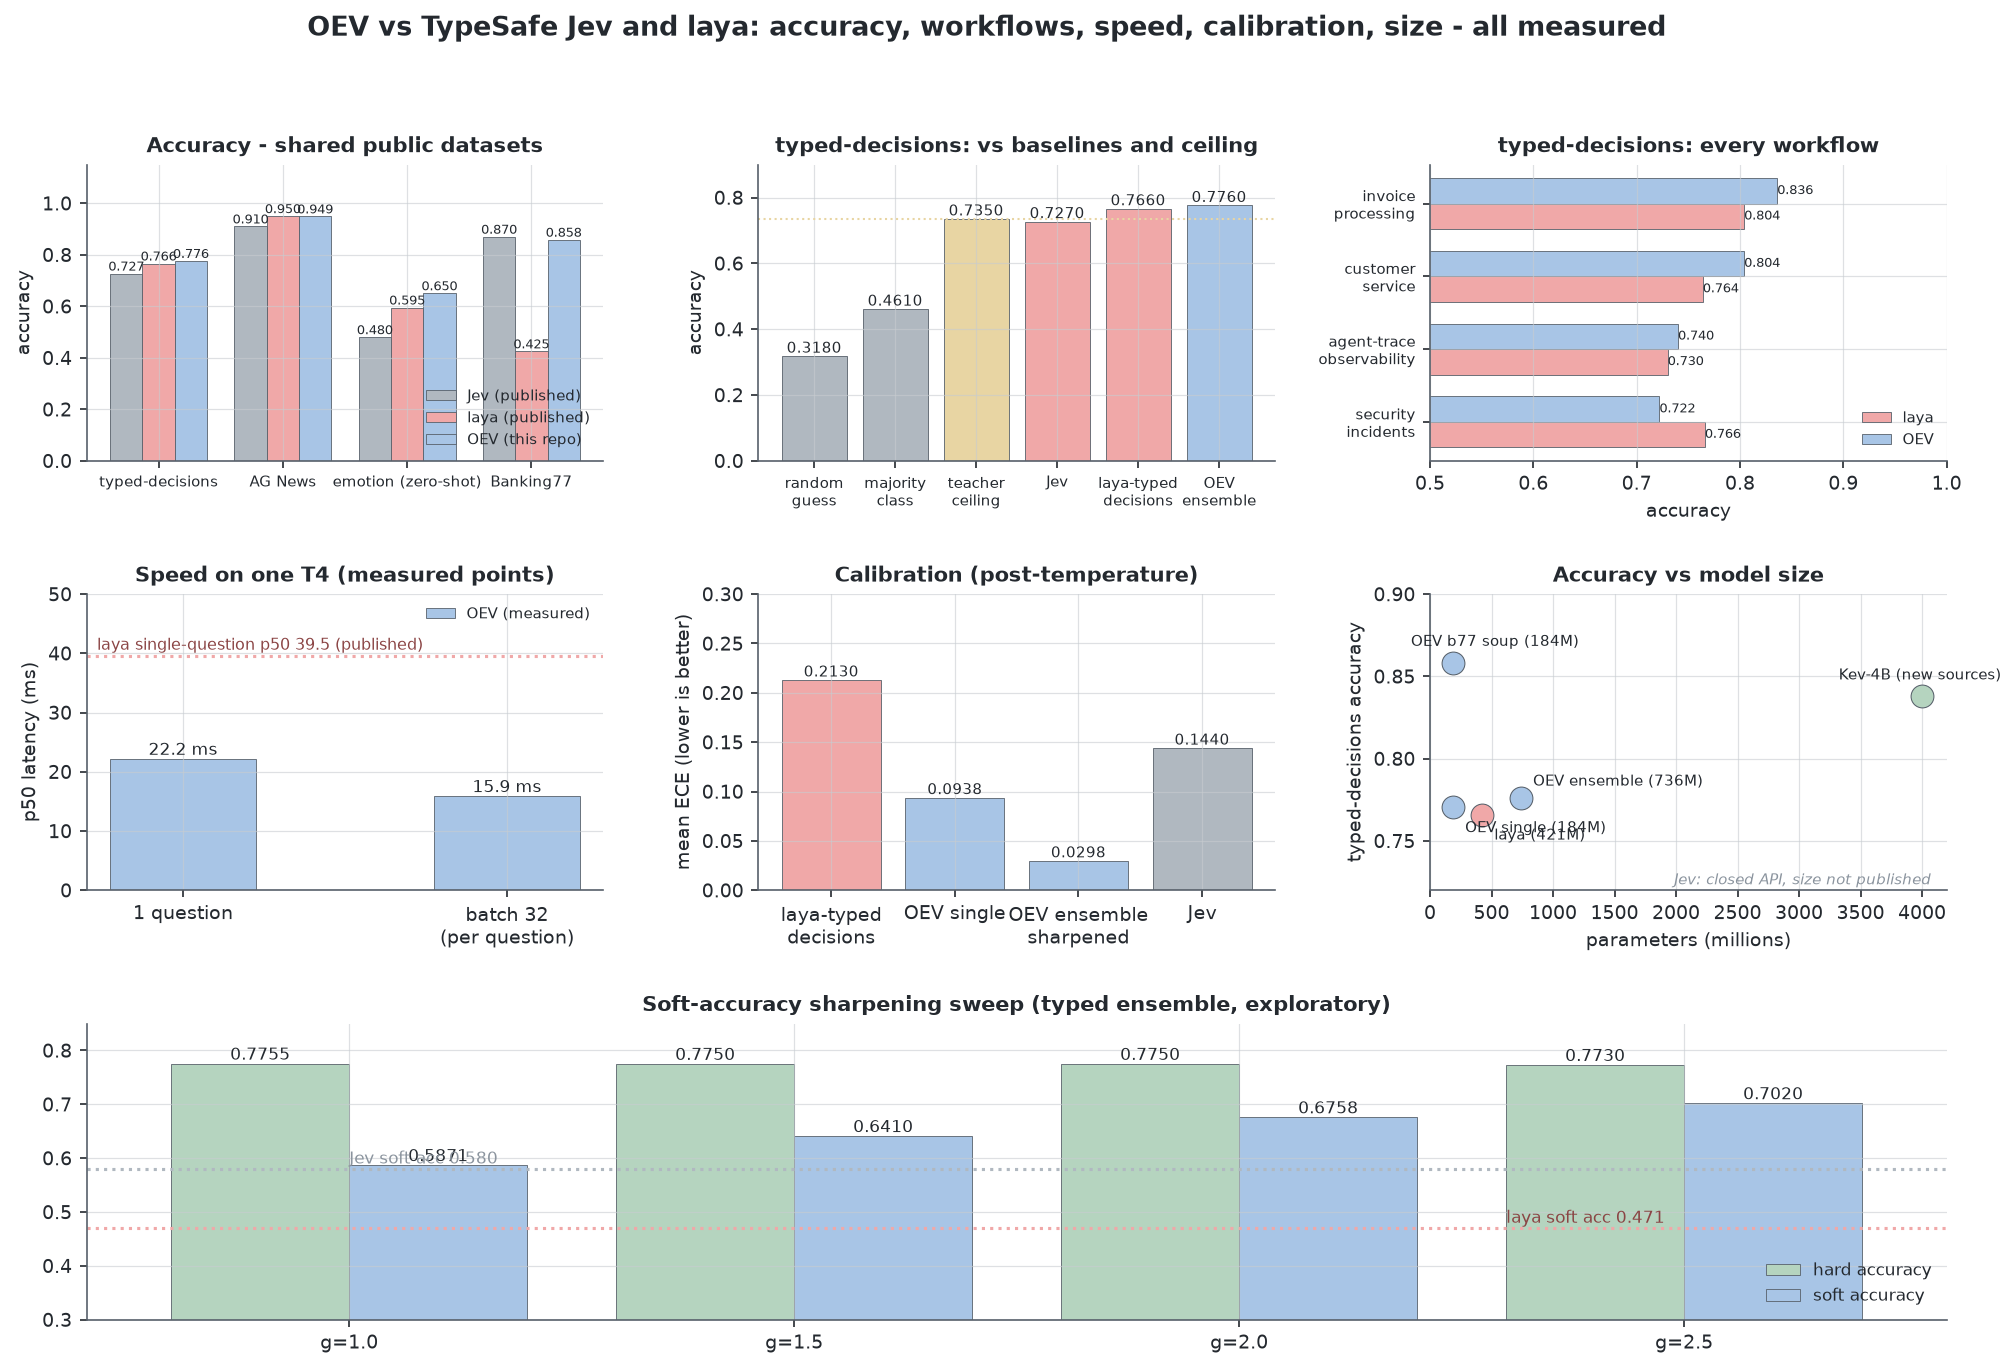
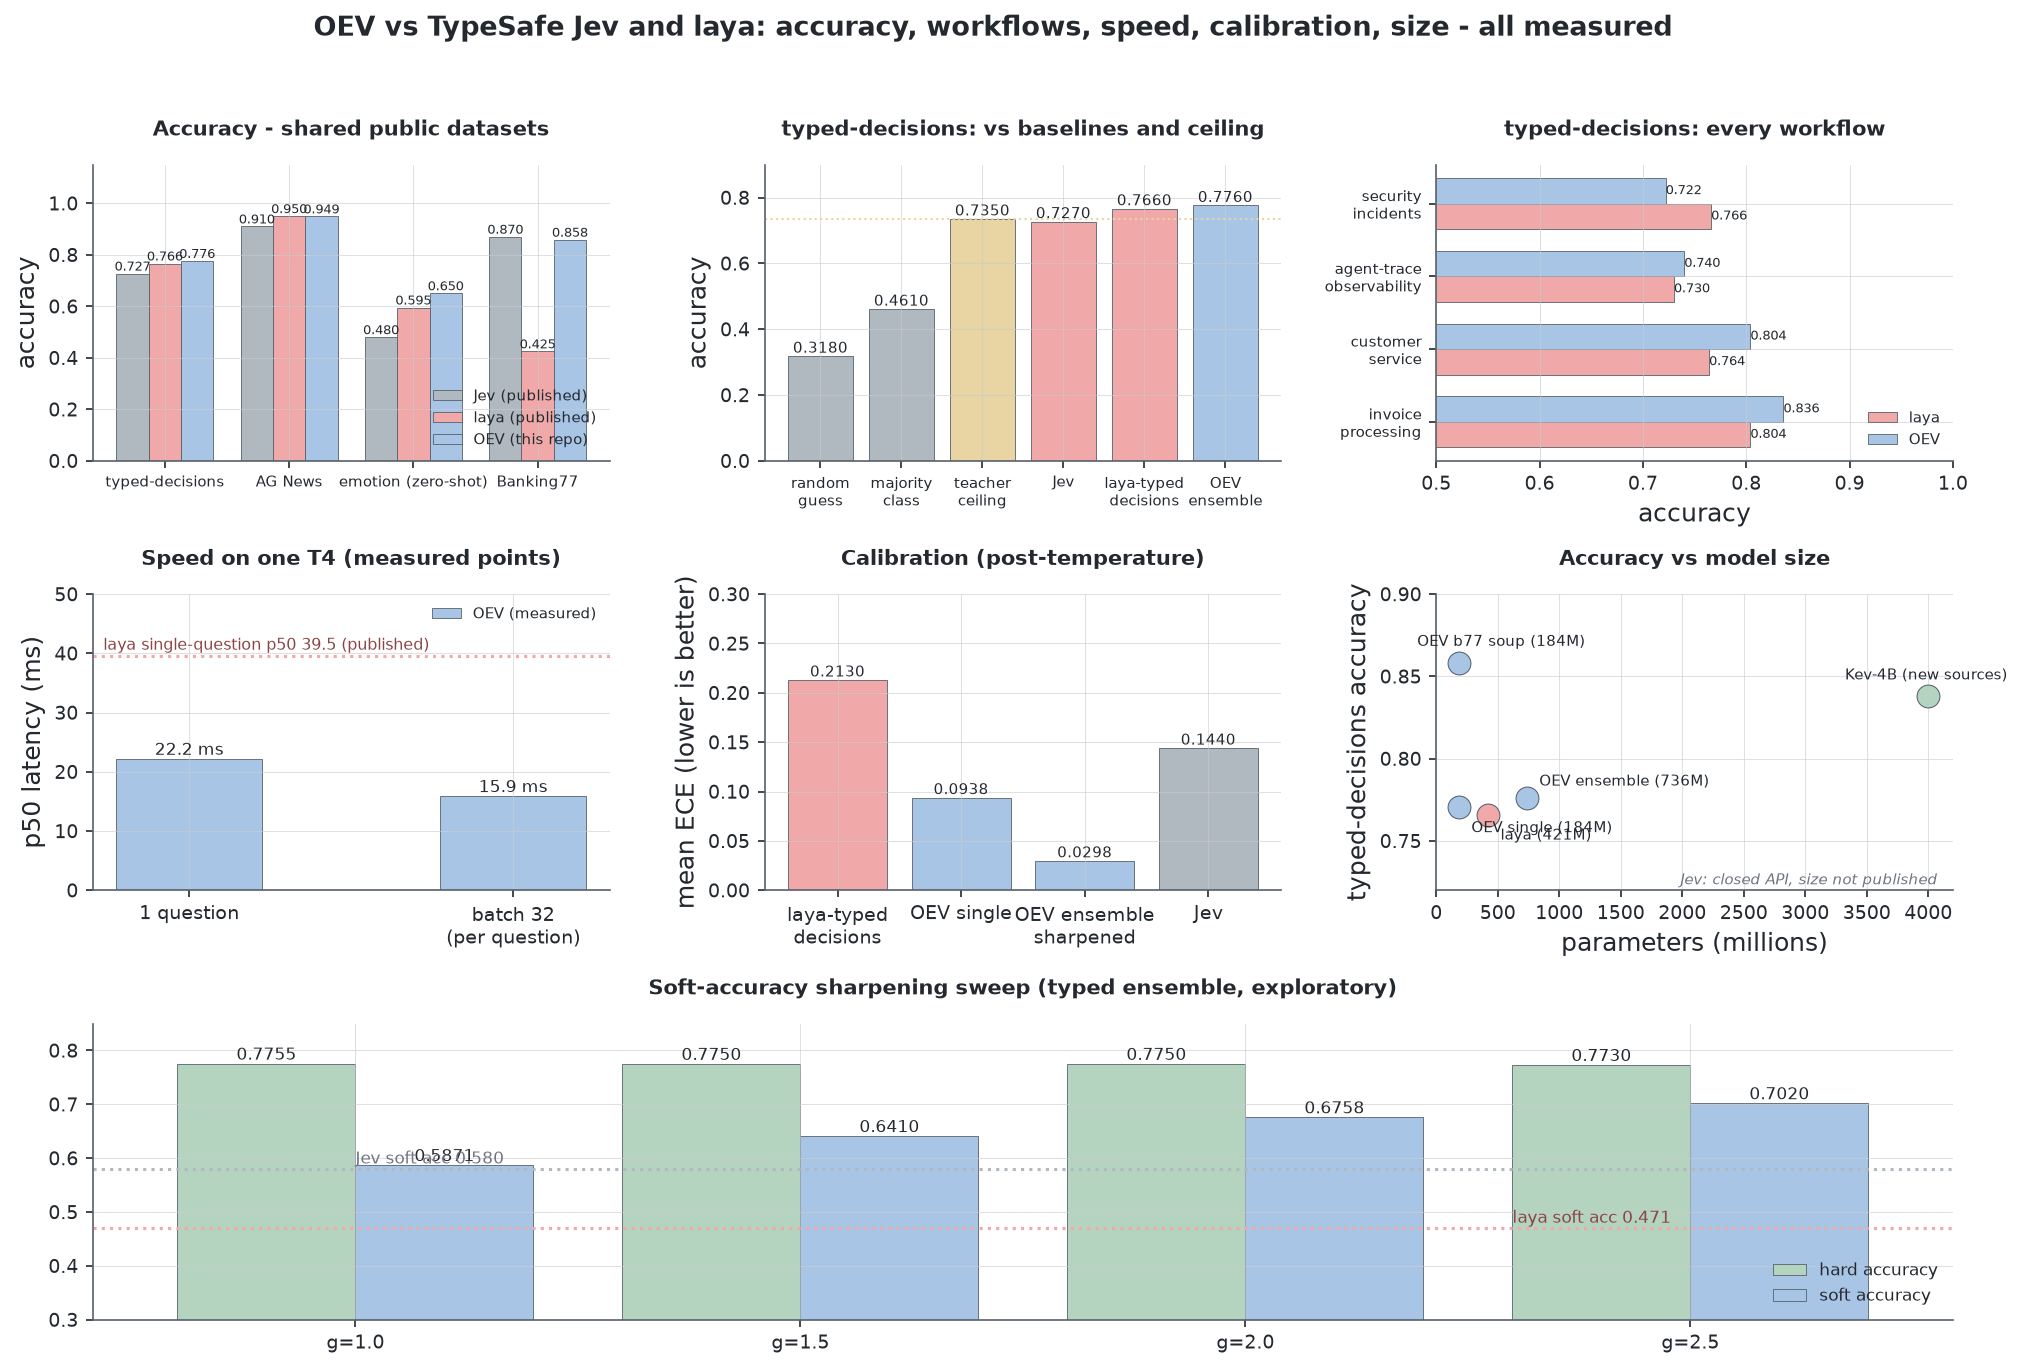
chore(repo): community files, ignore policy, chart modules, phase 3 docs

diff --git a/HF_MODEL_CARD.md b/HF_MODEL_CARD.md
@@ -28,8 +28,10 @@ Fine-tuned on the benchmark's train split, same protocol as [laya-typed-decision
 | ---------------------------------------------------- | ---------: | -----------: | -----------: | -----------: | ---------------: |
 | Jev 1.13.0 (published)                               | closed API |        0.727 |        0.580 |        0.144 |     236-`276 ms` |
 | laya-typed-decisions (published)                     |       421M |        0.766 |        0.471 |        0.213 |   32.8-`39.5 ms` |
-| **OEV single (oev-base-td5)**                        | **`184M`** | **`0.7705`** |       0.6225 |       0.0938 |    **`22.2 ms`** |
-| **OEV calibrated single (oev-base-rlcd-soup)**       | **`184M`** |       0.7570 |       0.5854 | **`0.0279`** |    **`22.2 ms`** |
+| **OEV single (oev-base-td5)**                        | **`184M`** | **`0.7705`** |       0.6225 |       0.0938 |    **`22.2 ms`** || **OEV calibrated single (oev-base-rlcd-soup)**                       | **`184M`** |       0.7570 |       0.5854 | **`0.0279`** |    **`22.2 ms`** |
+| **OEV temperature-calibrated (oev-base-td5, T=0.598)**               | **`184M`** |       0.7705 |            - | **`0.0204`** |    **`22.2 ms`** |
+
+The temperature-calibrated row is the best calibrated single: temperature `0.598` fitted on the valid split only (receipt in the repo's `runs/`), accuracy unchanged by monotone scaling. Use it via `OEV(checkpoint, temperature=0.598)`.
 | **OEV ensemble (all four checkpoints, equal votes)** | 4 × `184M` | **`0.7760`** |       0.5830 |            - |                - |
 | OEV ensemble, sharpened (γ = 2.5)                    | 3 × `184M` |       0.7730 | **`0.7020`** |       0.0298 |                - |
 
@@ -40,7 +42,7 @@ Per workflow (ensemble): invoice `0.836`, customer service `0.804`, agent-trace 
 | file                        | what it is                                                                                                                                                                                                                     |
 | --------------------------- | ------------------------------------------------------------------------------------------------------------------------------------------------------------------------------------------------------------------------------ |
 | **student-r2b-oev-tiny.pt** | **distilled generalist - recommended default.** One model for everything: typed `0.6480`, Banking77 `0.7964`, emotion zero-shot `0.6505` (beats laya `0.595`), probes all `PASS`. Use `gamma 1.2` for calibrated probabilities |
-| oev-base-td5.pt             | typed-decisions specialist (0.7705) - best when you only need agent-decision scoring                                                                                                                                           |
+| oev-base-td5.pt             | typed-decisions specialist (0.7705; with temperature 0.598 it is the most calibrated single at ECE 0.0204) - best when you only need agent-decision scoring                                                                    |
 | oev-base-rlcd-soup.pt       | most calibrated single (ECE 0.0279). Prefer this one when the probabilities feed automated decisions.                                                                                                                          |
 | oev-base-rlcd.pt            | RLCD fine-tune (Brier-reward policy gradient against teacher distributions)                                                                                                                                                    |
 | oev-base-rlcd-seed1.pt      | second RLCD seed - for ensembling                                                                                                                                                                                              |

diff --git a/CODE_OF_CONDUCT.md b/CODE_OF_CONDUCT.md
@@ -1,0 +1,81 @@
+# Contributor Covenant Code of Conduct
+
+## Our Pledge
+
+We as members, contributors, and leaders pledge to make participation in the
+OEV project a harassment-free experience for everyone, regardless of age, body
+size, visible or invisible disability, ethnicity, sex characteristics, gender
+identity and expression, level of experience, education, socio-economic status,
+nationality, personal appearance, race, religion, or sexual identity and
+orientation.
+
+We pledge to act and interact in ways that contribute to an open, welcoming,
+diverse, inclusive, and healthy community.
+
+## Our Standards
+
+Examples of behavior that contributes to a positive environment include:
+
+- Demonstrating empathy and kindness toward other people
+- Being respectful of differing opinions, viewpoints, and experiences
+- Giving and gracefully accepting constructive feedback
+- Accepting responsibility and apologizing to those affected by our mistakes,
+  and learning from the experience
+- Focusing on what is best not just for us as individuals, but for the overall
+  community
+
+Examples of unacceptable behavior include:
+
+- The use of sexualized language or imagery, and sexual attention or advances
+  of any kind
+- Trolling, insulting or derogatory comments, and personal or political attacks
+- Public or private harassment
+- Publishing others' private information, such as a physical or email address,
+  without their explicit permission
+- Other conduct which could reasonably be considered inappropriate in a
+  professional setting
+
+## Enforcement Responsibilities
+
+Community leaders are responsible for clarifying and enforcing our standards of
+acceptable behavior and will take appropriate and fair corrective action in
+response to any behavior that they deem inappropriate, threatening, offensive,
+or harmful.
+
+Community leaders have the right and responsibility to remove, edit, or reject
+comments, commits, code, wiki edits, issues, and other contributions that are
+not aligned to this Code of Conduct, and will communicate reasons for
+moderation decisions when appropriate.
+
+## Scope
+
+This Code of Conduct applies within all project spaces, and it also applies
+when an individual is officially representing the project in public spaces.
+Examples of representing our project include using an official project e-mail
+address, posting via an official social media account, or acting as an
+appointed representative at an online or offline event.
+
+## Enforcement
+
+Instances of abusive, harassing, or otherwise unacceptable behavior may be
+reported to the project maintainer through
+[GitHub private vulnerability reporting](https://github.com/divyanshudhruv/oev/security/advisories/new)
+or by contacting the owner directly via GitHub. All complaints will be reviewed
+and investigated promptly and fairly.
+
+All community leaders are obligated to respect the privacy and security of the
+reporter of any incident.
+
+## Attribution
+
+This Code of Conduct is adapted from the
+[Contributor Covenant](https://www.contributor-covenant.org), version 2.1,
+available at
+https://www.contributor-covenant.org/version/2/1/code_of_conduct.html.
+
+Community Impact Guidelines were inspired by
+[Mozilla's code of conduct enforcement ladder](https://github.com/mozilla/diversity).
+
+For answers to common questions about this code of conduct, see the FAQ at
+https://www.contributor-covenant.org/faq. Translations are available at
+https://www.contributor-covenant.org/translations.

diff --git a/README.md b/README.md
@@ -14,6 +14,7 @@ The single `184M` model scores `0.7705` on typed-decisions, slightly above laya'
 [![Hugging Face Model](https://img.shields.io/badge/%F0%9F%A4%97%20Model-divyanshudhruv%2Foev--typed-blue)](https://huggingface.co/divyanshudhruv/oev-typed)
 [![License](https://img.shields.io/badge/License-Apache%202.0-blue.svg)](LICENSE)
 [![Tests](https://github.com/divyanshudhruv/oev/actions/workflows/tests.yml/badge.svg)](https://github.com/divyanshudhruv/oev/actions/workflows/tests.yml)
+[![OpenSSF Scorecard](https://api.scorecard.dev/projects/github.com/divyanshudhruv/oev/badge)](https://scorecard.dev/viewer/?uri=github.com/divyanshudhruv/oev)
 [![Python](https://img.shields.io/badge/python-3.10%2B-blue)](https://www.python.org/downloads/)
 [![PyTorch](https://img.shields.io/badge/PyTorch-2.x-ee4c2c)](https://pytorch.org/get-started/locally/)
 [![HF Space](https://img.shields.io/badge/%F0%9F%A4%97%20Space-oev--demo-yellow)](https://huggingface.co/spaces/divyanshudhruv/oev-demo)
@@ -252,6 +253,13 @@ python -m pytest -q
 
 ## Reading the numbers
 
+<p align="center" style="margin: 24px 0;">
+<picture>
+  <source media="(prefers-color-scheme: dark)" srcset="https://raw.githubusercontent.com/divyanshudhruv/oev/main/assets/calibration_dark.png" />
+  <img src="https://raw.githubusercontent.com/divyanshudhruv/oev/main/assets/calibration.png" alt="Typed-decisions ECE: temperature scaling fitted on valid only sets a new project best of 0.0204" width="70%" />
+</picture>
+</p>
+
 - Each benchmark number comes from a checkpoint fine-tuned on that benchmark's train split, matching the baselines' published protocol
 - Zero-shot emotion is a separate head-to-head win: shipped student `0.6505` vs laya `0.595` (both zero-shot)
 - The `0.7760` headline is a 4-checkpoint ensemble; the best single file is `0.7705`
@@ -260,6 +268,7 @@ python -m pytest -q
 - The shipped generalist trails the typed specialist (`0.6480` vs `0.7705`); closing that spread is round 4
 - CPU: torch fp32 measured `447 ms` p50 at release; on the current workstation the same fp32 model runs `252.5 ms` and the ONNX INT8 build `54.2 ms` (8 threads, `scripts/bench_latency.py`). Headline timings are GPU
 - ECE asks: when the model says `0.9`, is it right `90%` of the time. Coverage is the operational read: what share of traffic can be automated at a given error budget (the Banking77 soup covers `76%` at `5%` error). Gate on the distributions, not the confidence field
+- Temperature `0.598` (fitted on the valid split only) cuts typed-decisions ECE from `0.0938` to `0.0204`, the best calibrated single in the project; pass it as `OEV(checkpoint, temperature=0.598)`. fp16 eval holds accuracy exactly (0.7705 both dtypes)
 - English only
 
 ## Roadmap

diff --git a/AGENTS.md b/AGENTS.md
@@ -14,8 +14,13 @@ Conventions for AI agents and humans working in this repository.
 - `examples/` - worked usage scripts
 - `app.py` - the Hugging Face Space demo (Gradio); syncs to the Space on
   every push to main
-- `scripts/` - chart generators (`make_charts.py`, `make_bigfigure.py`);
-  all charts are transparent-background pastel with light + dark variants
+- `scripts/` - generators and private tooling: chart generators
+  (`make_charts.py`, `make_bigfigure.py`) sharing one palette and number
+  registry (`chartstyle.py`, `chartdata.py`; the registry cross-checks
+  charted OEV numbers against `docs/claims.json`), plus one-off tools.
+  The Kaggle notebook builder and the r4fix generator are private
+  (gitignored). All charts are
+  transparent-background pastel with light + dark variants
 - `docs/` - private working notes (gitignored); only `claims.json` is
   tracked, mapping every published number to its checkpoint and eval command
 - `assets/` - README charts and logo; regenerate with
@@ -33,8 +38,9 @@ Conventions for AI agents and humans working in this repository.
    `git log` first and match. No signatures or trailers in commit messages.
 3. Run `python -m pytest -q` before proposing any code change. The suite
    is CPU-only and finishes in under a minute.
-4. Docstrings are banned in this codebase by owner preference. Use plain
-   comments where explanation is needed.
+4. Docstring policy: module-level docstrings are allowed (usage, schema
+   notes, CLI examples); function and class docstrings are not. Inside
+   functions and classes use plain comments where explanation is needed.
 5. No em dashes, curly quotes, or other typography that renders as
    AI-generated in committed markdown. No `statement - appositive; fragment`
    sentence patterns either; write plain sentences with varied structure.

diff --git a/ROADMAP.md b/ROADMAP.md
@@ -24,13 +24,16 @@ Measured results go to [BENCHMARKS.md](BENCHMARKS.md). Done items are checked wi
 ## Inference
 
 - [x] Run the INT8 ONNX bench. It landed at `54.2 ms` p50 on 8 threads, about 4.7x under the torch fp32 figure on the same machine, and the artifact is `228 MB` instead of `735 MB`
-- [ ] Try fp16 autocast on the eval path. Everything currently runs fp32, and autocast should roughly double GPU throughput if accuracy holds
+- [x] Try fp16 autocast on the eval path. Accuracy holds exactly (0.7705 both dtypes on the full test set); single-question p50 landed at 28.89 ms vs 32.61 ms fp32 on the same T4 instance (11 percent at batch 1, latency-bound). Receipt in `runs/`
+- [x] Measure the batched-latency bound for shared-state encoding: 4 questions in one padded batch run 72.17 ms vs 98.54 ms per-question, a 27 percent cut any true one-pass encoder must beat
+- [x] Fit calibration temperature on valid only: temperature 0.5981 cuts typed-decisions test ECE 0.0938 -> 0.0204, beating the published best calibrated single (0.0279). Receipt in `runs/`
 - [ ] Encode many questions against one shared state in a single pass instead of re-encoding the packed state per request
 - [ ] Fit calibration temperature inside `train.py` so every new checkpoint ships calibrated instead of needing a separate pass afterwards
 
 ## Reliability
 
-- [ ] Chase down the mild overconfidence the models still show on out-of-distribution and garbage inputs
+- [x] Quantify the OOD behavior: student-r2b shows mild conservatism, not overconfidence. 0 of 800 WANLI and 0 of 6 garbage-input answers reach p >= 0.9; emotion 14 of 800 confident, 1 confidently wrong. Receipt in `runs/`
+- [ ] Chase down the residual confident errors on in-distribution-adjacent inputs (1 of 800 emotion answers confidently wrong)
 
 ## Internationalization
 

diff --git a/BENCHMARKS.md b/BENCHMARKS.md
@@ -36,8 +36,16 @@ Each option is embedded as its own anchor, so all 77 labels receive the full pac
 | Single-question latency, T4 p50 | 22.2 ms | `184M` checkpoint |
 | Single-question latency, CPU p50 | 447 ms | 8 threads, `184M` checkpoint (original release measurement) |
 | Single-question latency, CPU p50, ONNX INT8 | 54.2 ms | same workstation, 8 threads, `228 MB` artifact; torch fp32 on the identical machine: 252.5 ms, ONNX fp32: 58.3 ms (`scripts/bench_latency.py`) |
+| fp16 autocast eval, T4 p50 | 28.89 ms | accuracy identical to fp32 (0.7705 both) on the full test set; same-session fp32 p50 32.61 ms (`runs/20260928-091824-fp16eval-oev-base-td5.json`) |
+| 4 questions batched, T4 | 72.17 ms | per-question loop on the same questions: 98.54 ms; bounds the shared-state encoder win (`runs/20260928-091830-batched-latency-oev-base-td5.json`) |
 
 The confidence field is the maximum probability of a choice distribution, not a calibrated error rate. Use the full distribution and coverage-at-error results for gating.
+
+## Calibration and out-of-distribution behavior
+
+Temperature scaling fitted on the typed-decisions validation split only (eval-rules compliant) cuts test ECE from `0.0938` to `0.0204` on the 2,000-decision test set, beating the published best calibrated single (`0.0279`, rlcd-soup). Accuracy is unchanged by monotone temperature scaling. Use `OEV(checkpoint, temperature=0.598)` (`runs/20260928-092030-calibration-oev-base-td5.json`).
+
+The shipped generalist (student-r2b) shows the expected mild OOD conservatism rather than overconfidence: `0` of `800` WANLI zero-shot answers and `0` of `6` garbage-input answers reach `p >= 0.9`, and on emotion `14` of `800` are confident with `1` confidently wrong (`runs/20260928-092113-ood-sweep-student-r2b.json`).
 
 ## Evaluation rules
 

diff --git a/.github/PULL_REQUEST_TEMPLATE.md b/.github/PULL_REQUEST_TEMPLATE.md
@@ -1,0 +1,25 @@
+<!-- Thank you for contributing to OEV. Keep each PR focused on one change. -->
+
+## Summary
+
+<!-- What does this PR change and why? -->
+
+## Changes
+
+- [ ] Code change (model, inference, training, tooling)
+- [ ] Documentation update
+- [ ] Benchmark or measurement update
+- [ ] Tests added or updated
+
+## Checks
+
+- [ ] `python -m pytest -q` passes locally (CPU-only suite, no checkpoints needed)
+- [ ] `ruff check oev scripts tests` is clean
+- [ ] `python scripts/check_claims.py` passes if any published number or version changed
+- [ ] No checkpoint files (`*.pt`), `data/`, or private session notes are included in the diff
+- [ ] Commit messages follow `type(scope): summary`
+- [ ] No em dashes, curly quotes, or fabricated benchmark numbers
+
+## Benchmark note
+
+<!-- If this PR changes model or performance code, include before/after numbers with hardware and command. Otherwise write "not applicable". -->
